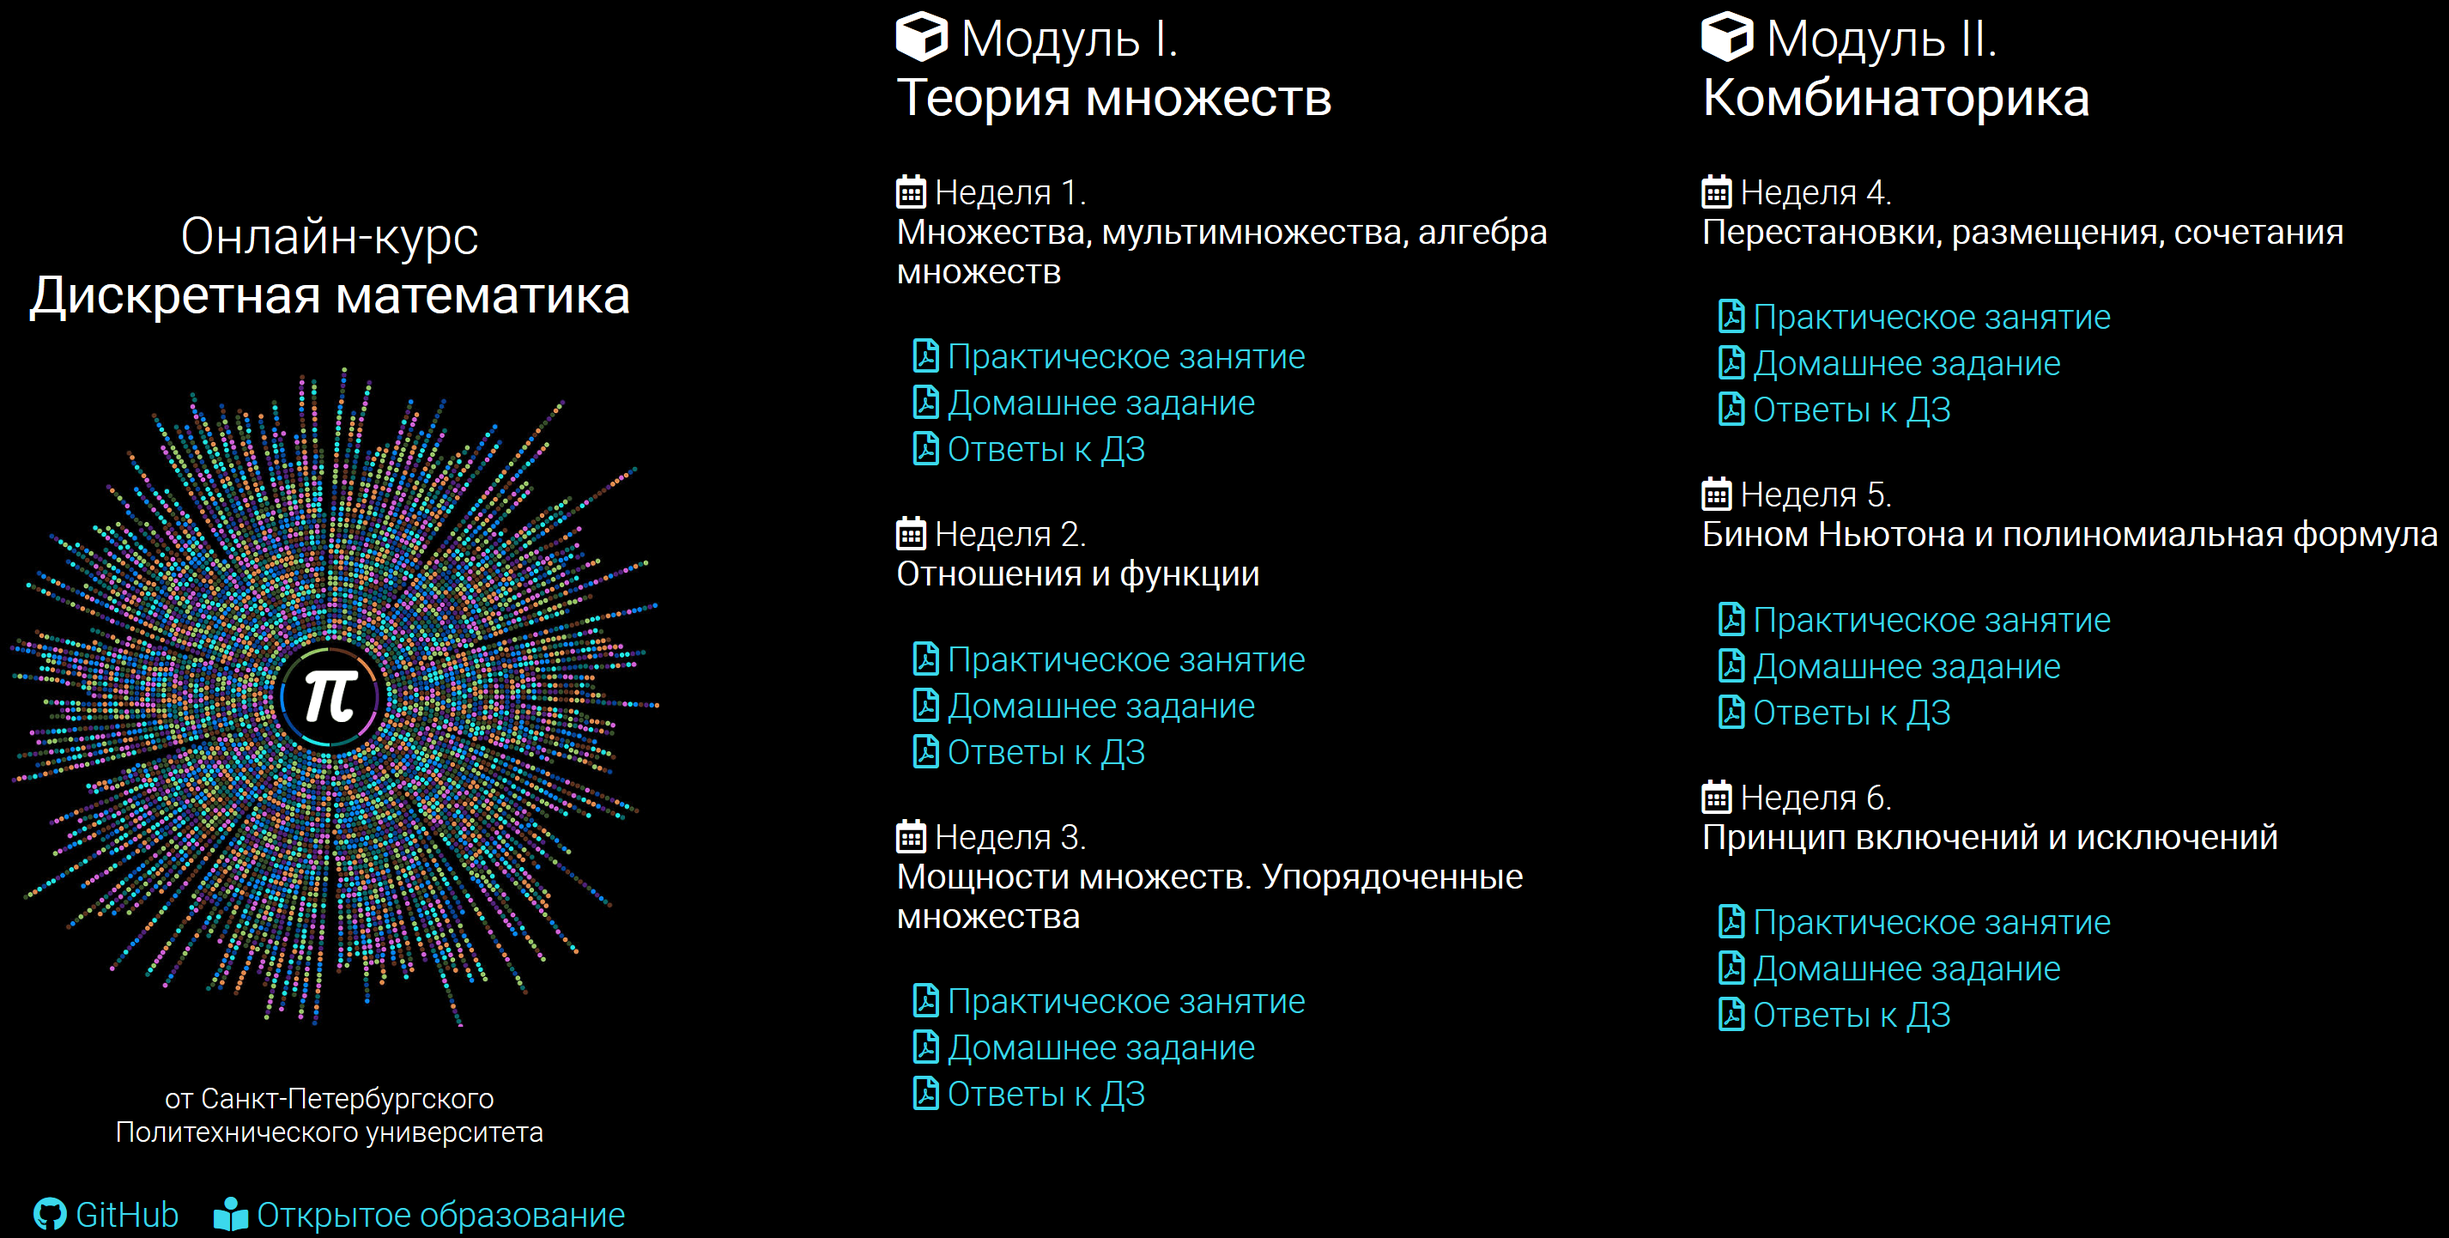
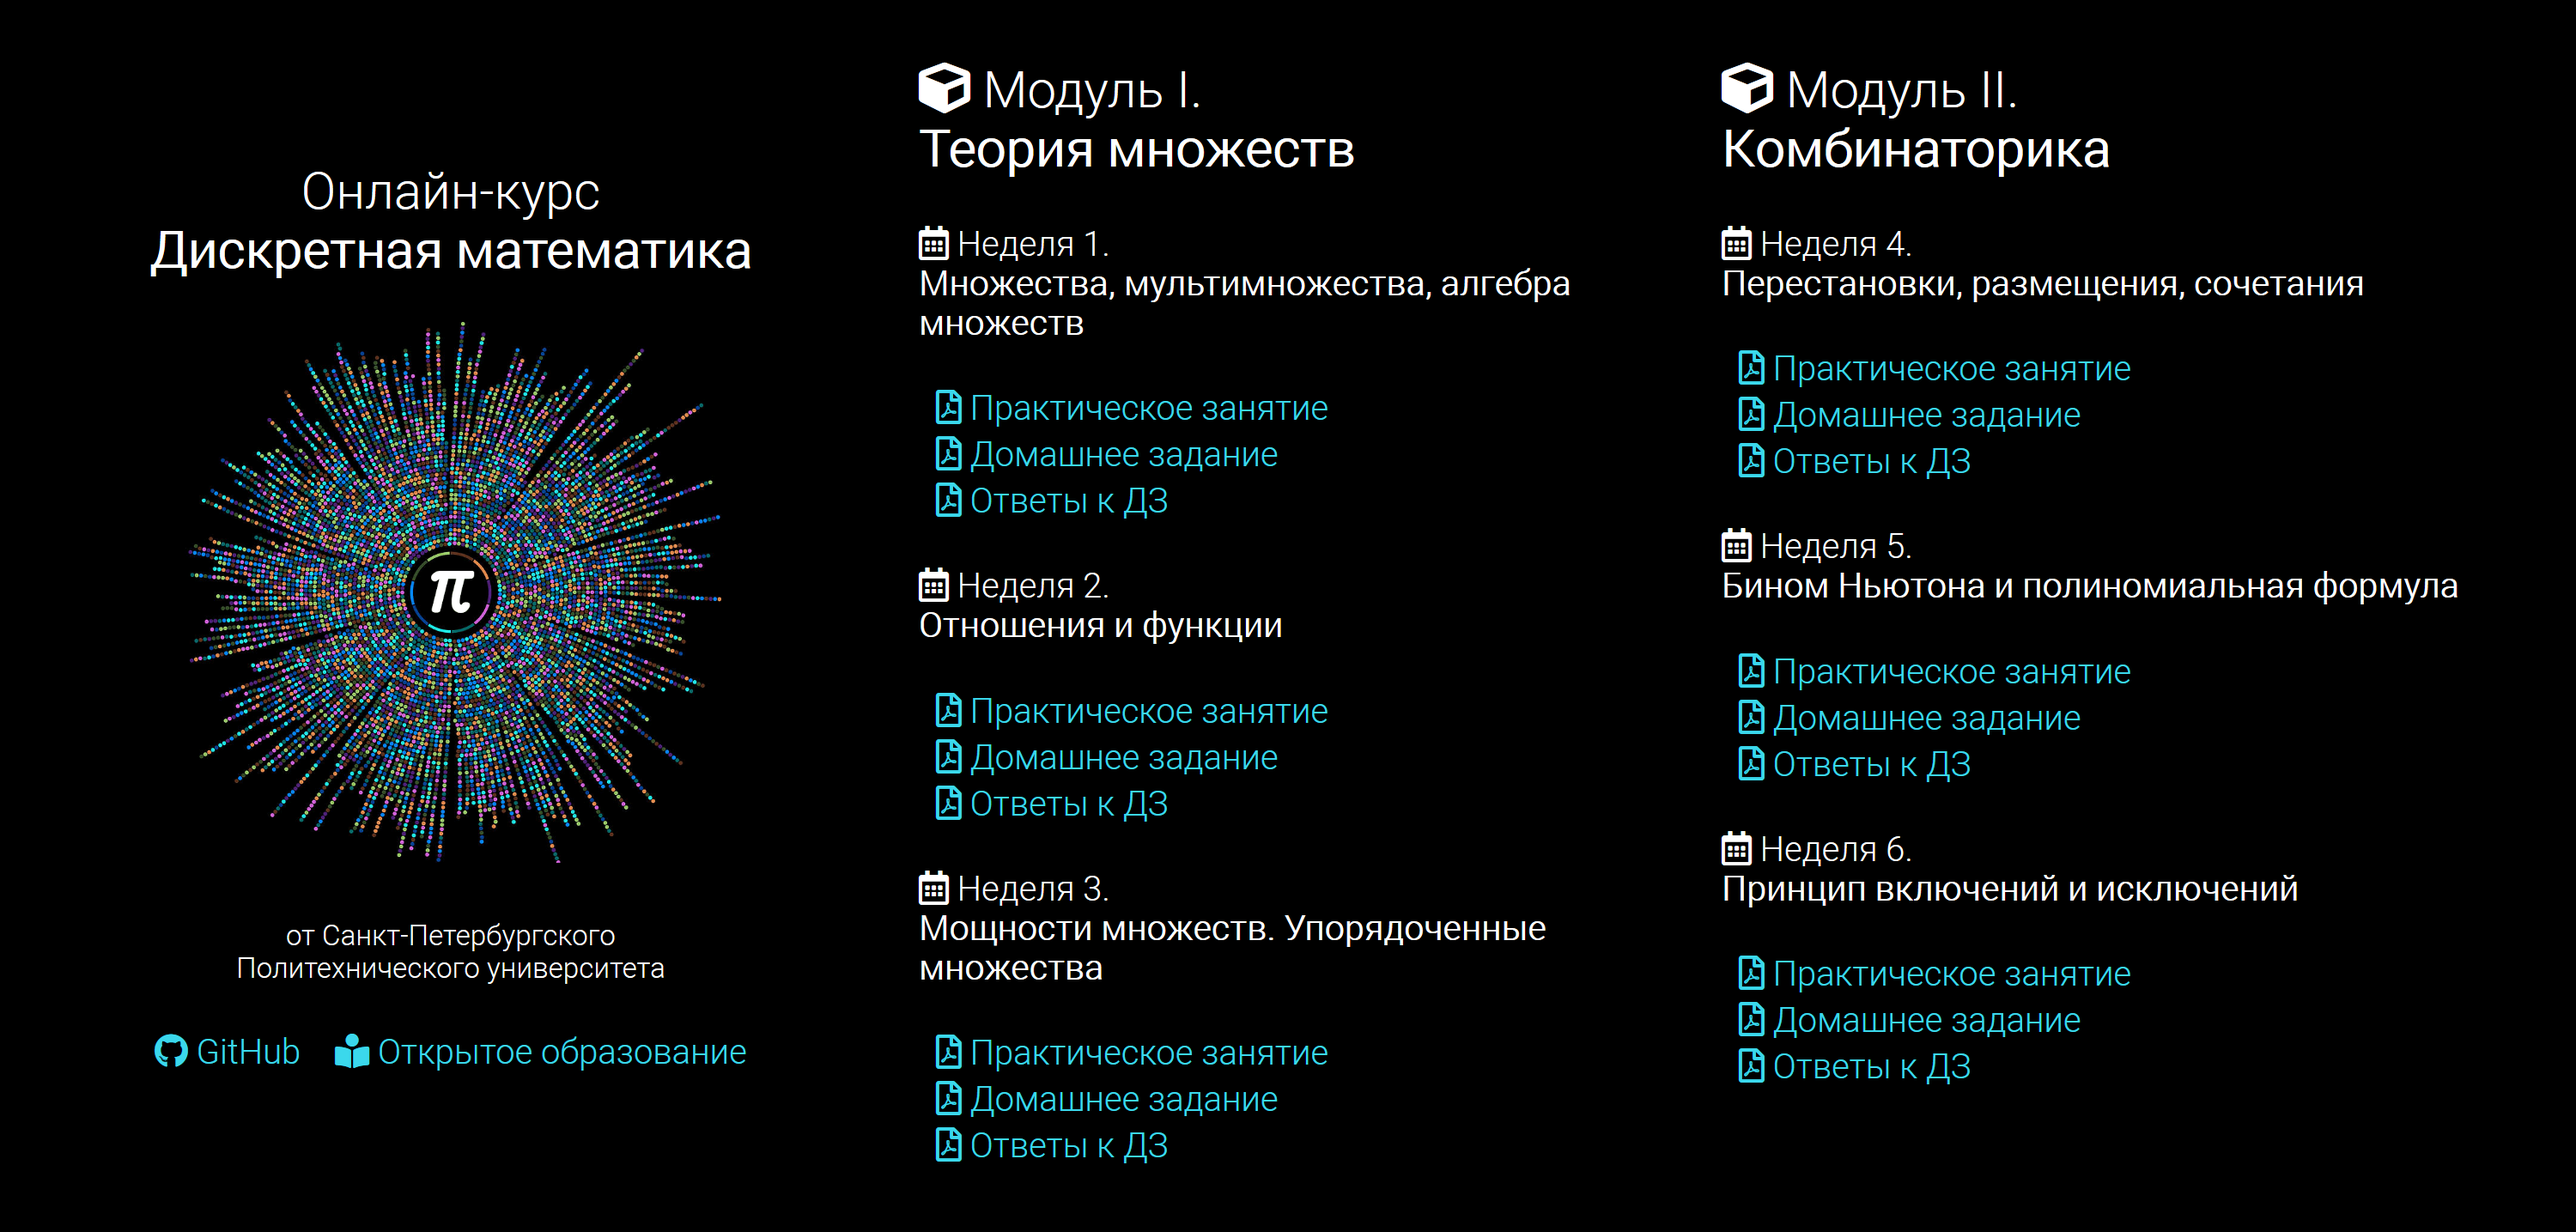
Fixed css positions

diff --git a/css/main.css b/css/main.css
@@ -1,1 +1,1 @@
-/*! normalize.css v8.0.1 | MIT License | github.com/necolas/normalize.css */html{line-height:1.15;-webkit-text-size-adjust:100%}body{margin:0}main{display:block}h1{font-size:2em;margin:0.67em 0}hr{-webkit-box-sizing:content-box;box-sizing:content-box;height:0;overflow:visible}pre{font-family:monospace, monospace;font-size:1em}a{background-color:transparent}abbr[title]{border-bottom:none;text-decoration:underline;-webkit-text-decoration:underline dotted;text-decoration:underline dotted}b,strong{font-weight:bolder}code,kbd,samp{font-family:monospace, monospace;font-size:1em}small{font-size:80%}sub,sup{font-size:75%;line-height:0;position:relative;vertical-align:baseline}sub{bottom:-0.25em}sup{top:-0.5em}img{border-style:none}button,input,optgroup,select,textarea{font-family:inherit;font-size:100%;line-height:1.15;margin:0}button,input{overflow:visible}button,select{text-transform:none}[type=button],[type=reset],[type=submit],button{-webkit-appearance:button}[type=button]::-moz-focus-inner,[type=reset]::-moz-focus-inner,[type=submit]::-moz-focus-inner,button::-moz-focus-inner{border-style:none;padding:0}[type=button]:-moz-focusring,[type=reset]:-moz-focusring,[type=submit]:-moz-focusring,button:-moz-focusring{outline:1px dotted ButtonText}fieldset{padding:0.35em 0.75em 0.625em}legend{-webkit-box-sizing:border-box;box-sizing:border-box;color:inherit;display:table;max-width:100%;padding:0;white-space:normal}progress{vertical-align:baseline}textarea{overflow:auto}[type=checkbox],[type=radio]{-webkit-box-sizing:border-box;box-sizing:border-box;padding:0}[type=number]::-webkit-inner-spin-button,[type=number]::-webkit-outer-spin-button{height:auto}[type=search]{-webkit-appearance:textfield;outline-offset:-2px}[type=search]::-webkit-search-decoration{-webkit-appearance:none}::-webkit-file-upload-button{-webkit-appearance:button;font:inherit}details{display:block}summary{display:list-item}template{display:none}[hidden]{display:none}@font-face{font-family:"Roboto";src:url("../static/robotolight.ttf")}*{-webkit-box-sizing:border-box;box-sizing:border-box}body,html{background:#000000}a,button,div,footer,h1,h2,h3,h4,h5,h6,li,p{font-weight:normal;color:white;font-family:"Roboto", Verdana, "Droid Serif", "Lora", Bookman, Georgia}body{display:-webkit-box;display:-ms-flexbox;display:flex}.content,.main{min-height:100vh}.main{text-align:center;width:40vw;display:-webkit-box;display:-ms-flexbox;display:flex;-webkit-box-align:center;-ms-flex-align:center;align-items:center;-webkit-box-pack:center;-ms-flex-pack:center;justify-content:center}.content{width:60vw;height:100vh;overflow-y:auto}.main-img{width:60%}a,button{cursor:pointer}button{background:none;border:none;outline:none}.button-text{color:#3bd8ec}.main .title:first-child{margin-top:0}.title{text-align:center}.week-item{margin-bottom:0.2rem}.modules{display:-ms-grid;display:grid;-ms-grid-columns:1fr 1fr;grid-template-columns:1fr 1fr}.module-block{padding:0.5rem}@media screen and (max-width:800px){body{display:block}.content,.main{width:100vw}.modules{display:block;padding:0.7rem}}
+/*! normalize.css v8.0.1 | MIT License | github.com/necolas/normalize.css */html{line-height:1.15;-webkit-text-size-adjust:100%}body{margin:0}main{display:block}h1{font-size:2em;margin:0.67em 0}hr{-webkit-box-sizing:content-box;box-sizing:content-box;height:0;overflow:visible}pre{font-family:monospace, monospace;font-size:1em}a{background-color:transparent}abbr[title]{border-bottom:none;text-decoration:underline;-webkit-text-decoration:underline dotted;text-decoration:underline dotted}b,strong{font-weight:bolder}code,kbd,samp{font-family:monospace, monospace;font-size:1em}small{font-size:80%}sub,sup{font-size:75%;line-height:0;position:relative;vertical-align:baseline}sub{bottom:-0.25em}sup{top:-0.5em}img{border-style:none}button,input,optgroup,select,textarea{font-family:inherit;font-size:100%;line-height:1.15;margin:0}button,input{overflow:visible}button,select{text-transform:none}[type=button],[type=reset],[type=submit],button{-webkit-appearance:button}[type=button]::-moz-focus-inner,[type=reset]::-moz-focus-inner,[type=submit]::-moz-focus-inner,button::-moz-focus-inner{border-style:none;padding:0}[type=button]:-moz-focusring,[type=reset]:-moz-focusring,[type=submit]:-moz-focusring,button:-moz-focusring{outline:1px dotted ButtonText}fieldset{padding:0.35em 0.75em 0.625em}legend{-webkit-box-sizing:border-box;box-sizing:border-box;color:inherit;display:table;max-width:100%;padding:0;white-space:normal}progress{vertical-align:baseline}textarea{overflow:auto}[type=checkbox],[type=radio]{-webkit-box-sizing:border-box;box-sizing:border-box;padding:0}[type=number]::-webkit-inner-spin-button,[type=number]::-webkit-outer-spin-button{height:auto}[type=search]{-webkit-appearance:textfield;outline-offset:-2px}[type=search]::-webkit-search-decoration{-webkit-appearance:none}::-webkit-file-upload-button{-webkit-appearance:button;font:inherit}details{display:block}summary{display:list-item}template{display:none}[hidden]{display:none}@font-face{font-family:"Roboto";src:url("../static/robotolight.ttf")}*{-webkit-box-sizing:border-box;box-sizing:border-box}body,html{background:#000000}a,button,div,footer,h1,h2,h3,h4,h5,h6,li,p{font-weight:normal;color:white;font-family:"Roboto", Verdana, "Droid Serif", "Lora", Bookman, Georgia}.content,.main{min-height:100vh}.main{position:fixed;top:0;left:0;width:40vw;text-align:center;display:-webkit-box;display:-ms-flexbox;display:flex;-webkit-box-align:center;-ms-flex-align:center;align-items:center;-webkit-box-pack:center;-ms-flex-pack:center;justify-content:center}.content{width:calc(60vw - 2rem);height:100vh;margin-left:40vw}.main-img{width:60%}a,button{cursor:pointer}button{background:none;border:none;outline:none}.button-text{color:#3bd8ec}.main .title:first-child{margin-top:0}.title{text-align:center}.week-item{margin-bottom:0.2rem}.modules{display:-ms-grid;display:grid;-ms-grid-columns:1fr 1fr;grid-template-columns:1fr 1fr}.module-block{padding:0.5rem}@media screen and (max-width:800px){.content,.main{position:static;margin:0;width:100vw}.modules{display:block;padding:0.7rem;height:auto!important}}@media screen and (max-width:1200px) and (min-width:801px){.main{width:35vw}.content{width:calc(65vw - 2rem);margin-left:35vw;display:block}}

diff --git a/sass/main.sass b/sass/main.sass
@@ -18,23 +18,23 @@ div, h1, h2, h3, h4, h5, h6, p, li, footer, a, button
   color: white
   font-family: "Roboto", Verdana, "Droid Serif", "Lora", Bookman, Georgia
 
-body
-  display: flex
-
 .main, .content
   min-height: 100vh
 
 .main
-  text-align: center
+  position: fixed
+  top: 0
+  left: 0
   width: 40vw
+  text-align: center
   display: flex
   align-items: center
   justify-content: center
 
 .content
-  width: 60vw
+  width: calc(60vw - 2rem)
   height: 100vh
-  overflow-y: auto
+  margin-left: 40vw
 
 .main-img
   width: 60%
@@ -67,10 +67,24 @@ button
   padding: 0.5rem
 
 @media screen and (max-width: 800px)
-  body
-    display: block
   .main, .content
+    position: static
+    margin: 0
     width: 100vw
   .modules
     display: block
     padding: 0.7rem
+    height: auto !important
+
+@media screen and (max-width: 1200px) and (min-width: 801px)
+  .main
+    width: 35vw
+  .content
+    width: calc(65vw - 2rem)
+    margin-left: 35vw
+    display: block
+    // grid-template-columns: 1fr
+  // .modules
+  //   display: block
+  //   padding: 0.7rem
+  //   height: auto !important
